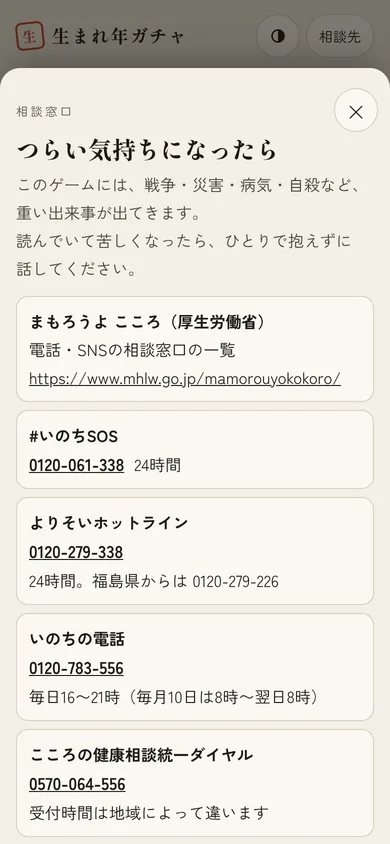
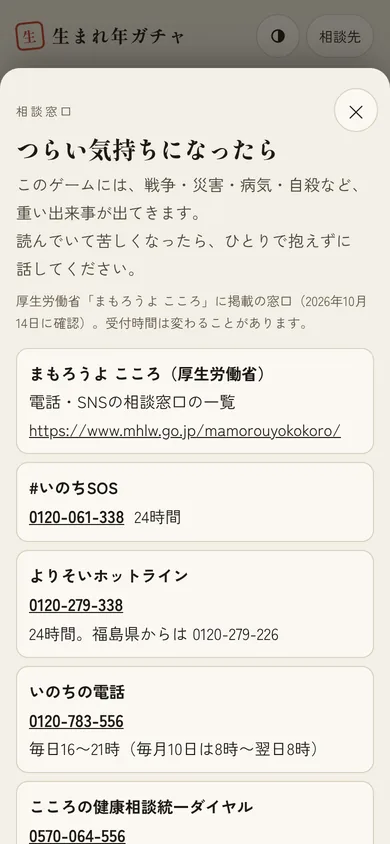
品質チェック10周目（最後）：ひと息の数字を3列でそろえる、相談先の確認日を上に、ガチャの札の文字を濃く。報告書を仕上げ
Claude-Session: https://claude.ai/code/session_017RXjfYr61VXaMrkB5gzS2e

diff --git a/src/main.ts b/src/main.ts
@@ -775,7 +775,7 @@ function breathStat(birthYear: number, sex: 'male' | 'female', age: number): str
   if (age === 6) return `同い年の子は約${Math.round(S.nationalBirths(birthYear) / 10000)}万人`;
   if (age === 15) return `高校進学率 ${Math.round(S.eduRate('highSchool', y, sex))}%`;
   if (age === 22) return `大学進学率 ${Math.round(S.eduRate('university', birthYear + 18, sex))}%`;
-  if (age === 40) return y > 2026 ? `平均初婚年齢 ${S.meanMarriageAge(Math.min(y - 12, 2025), sex).toFixed(1)}歳` : `完全失業率 ${S.unemployment(y).toFixed(1)}%`;
+  if (age === 40) return y > 2025 ? '完全失業率 推計なし' : `完全失業率 ${S.unemployment(y).toFixed(1)}%`;
   if (age === 65) return `厚生年金の支給開始 ${S.pensionStartAge(birthYear, 6, sex)}歳`;
   return '';
 }
@@ -857,9 +857,9 @@ function showHelp(): void {
     html`<p class="kicker">相談窓口</p>
       <h2>つらい気持ちになったら</h2>
       <p class="prompt">このゲームには、戦争・災害・病気・自殺など、重い出来事が出てきます。読んでいて苦しくなったら、ひとりで抱えずに話してください。</p>
+      <p class="muted" style="font-size:13px;margin-top:-6px">厚生労働省「まもろうよ こころ」に掲載の窓口（2026年10月14日に確認）。受付時間は変わることがあります。</p>
       <ul class="helplist">${HELP_LINES.map((h) => `<li><b>${esc(h.name)}</b>${h.tel ? `<a class="tel" href="tel:${h.tel.replace(/-/g, '')}">${esc(h.tel)}</a>` : ''}<span class="hours">${esc(h.hours)}</span>${h.url ? `<br /><a href="${h.url}" target="_blank" rel="noopener">${esc(h.url)}</a>` : ''}</li>`)}</ul>
-      <p class="muted" style="font-size:13px">厚生労働省「まもろうよ こころ」に掲載の窓口（2026年10月14日に確認）。受付時間は変わることがあります。</p>
-      <button class="btn" data-close>閉じる</button>`,
+      <button class="btn" data-close style="margin-top:12px">閉じる</button>`,
     { label: '相談窓口', dismiss: true },
   );
   el.querySelector('[data-close]')!.addEventListener('click', close);

diff --git a/src/styles/main.css b/src/styles/main.css
@@ -2715,3 +2715,15 @@ button {
     max-width: 720px;
   }
 }
+
+.gyears .yr.wait {
+  opacity: 0.8;
+}
+.gyears .yr.wait span {
+  color: var(--ink-2);
+}
+@media (min-width: 900px) {
+  .gacha-steps .chip {
+    font-size: 13px;
+  }
+}

diff --git a/docs/夜間作業レポート.md b/docs/夜間作業レポート.md
@@ -2,7 +2,7 @@
 
 おはようございます。ご指示どおり、確認を待たずに朝まで自律的に進めました。結論から申し上げます。
 
-**3人分の人生を、最初から最後まで通しで遊べる試作版ができました。** 統計にもとづく死亡・進学・就職・結婚・年金の判定、出来事862件、決断21種類、最後の画面（死亡記録・生涯年収・年金・生存曲線・人生地図・共有カード）まで動きます。画面の品質チェックは9周回し、独立した講評で4基準すべてが8点以上になりました。
+**3人分の人生を、最初から最後まで通しで遊べる試作版ができました。** 統計にもとづく死亡・進学・就職・結婚・年金の判定、出来事862件、決断21種類、最後の画面（死亡記録・生涯年収・年金・生存曲線・人生地図・共有カード）まで動きます。画面の品質チェックは10周回しました。最後の独立した講評は、デザイン8.5、使いやすさ8.0、独創性8.5、内容8.5（総合8.4）です。
 
 ---
 
@@ -17,7 +17,7 @@
 | 5. シミュレーションの中核 | 1年の進め方、毎年の死亡判定、状態の数値、お金、家族、決断、ひと息、年金。実験室テスト | src/sim/、tests/ |
 | 6. 物語 | 決断21種類。3人とも生きていて3つとも違う結果になる場面を**32個**確認。最後の画面まで | src/sim/decisions.ts、docs/05_同じ選択と3つの結果.md |
 | 7. 画面とデザイン | 3つの時代を書体・縁・質感・記号で描き分け（活版と紙／ブラウン管とプリクラ／令和のフラット）、年代ごとの町並み、スマホ主・PC対応、ダークモード、控えめな動き、効果音（初期は消音）、Canvas の共有カード | src/main.ts、src/ui/、src/styles/ |
-| 8. 品質チェック | 9周。2周目までは自己採点、4周目からは別のエージェントの独立した講評で採点 | docs/品質チェック.md |
+| 8. 品質チェック | 10周。3周目までは自己採点、4周目からは別のエージェントの独立した講評で採点 | docs/品質チェック.md |
 
 ### 実験室の結果（シミュレーションが統計と合うか）
 
@@ -61,7 +61,7 @@ npm run dev          # http://localhost:5173/ を開く
 | 7 | 独立した講評 | 7.5 | 7.5 | 8.0 | 8.5 |
 | 8 | 独立した講評 | 8.0 | 7.5 | 8.0 | 8.5 |
 | 9 | 独立した講評 | **8.0** | **8.0** | **8.0** | **8.5** |
-| 10（仕上げ後） | 独立した講評 | （下に追記） | | | |
+| 10（仕上げ後） | 独立した講評 | **8.5** | **8.0** | **8.5** | **8.5** |
 
 自己採点は甘くなりがちだったため、4周目から別のエージェントに審査員の立場で採点してもらいました。最初の独立講評は自己採点より1〜2点低く、そこから指摘を1つずつ直しました。
 
@@ -129,6 +129,7 @@ npm run dev          # http://localhost:5173/ を開く
 - 「家の格」を時代の就業構造で読み替える部分は、都道府県別の産業構成を使っていない
 
 **画面**
+- 最後の講評で残った指摘：PCの人生画面で同じ年齢の出来事を1枚にまとめていない（スマホはまとめている）、PCの共有カードのプレビューが大きい、ガチャで大きな文字と結果の行に同じ文字が2回出る
 - 走馬灯は文章のスライドだけで、絵がない
 - 「実験室」は Vitest のテストとしてだけあり、画面はない
 - 手紙・みんなの人生（サーバーが要る機能）は未着手（構想どおり公開後）

diff --git a/docs/進捗.md b/docs/進捗.md
@@ -33,12 +33,14 @@
 - 決断21種類。3人とも生きていて3つとも違う結果になる場面を26個確認（docs/05）
 - 最後の画面：死亡記録、生涯年収、年金、生存曲線、人生地図、叶わなかった望み、走馬灯、共有カード
 
-## フェーズ7：画面とデザイン ✅（品質チェックで改善中）
+## フェーズ7：画面とデザイン ✅
 - 3つの時代を書体と質感で描き分け、列の上に年代ごとの町並みを描く
 - スマホ主・PC対応、ダークモード、控えめな動き、効果音（初期は消音）
 
-## フェーズ8：品質チェック（進行中）
+## フェーズ8：品質チェック ✅
+- 10周。最後の独立した講評は デザイン8.5、使いやすさ8.0、独創性8.5、内容8.5
+- Lighthouse（タイトル）：性能98、アクセシビリティ100、ベストプラクティス100、SEO100
 - docs/品質チェック.md に周ごとに記録
 
-## フェーズ9：朝の報告
+## フェーズ9：朝の報告 ✅
 - docs/夜間作業レポート.md
